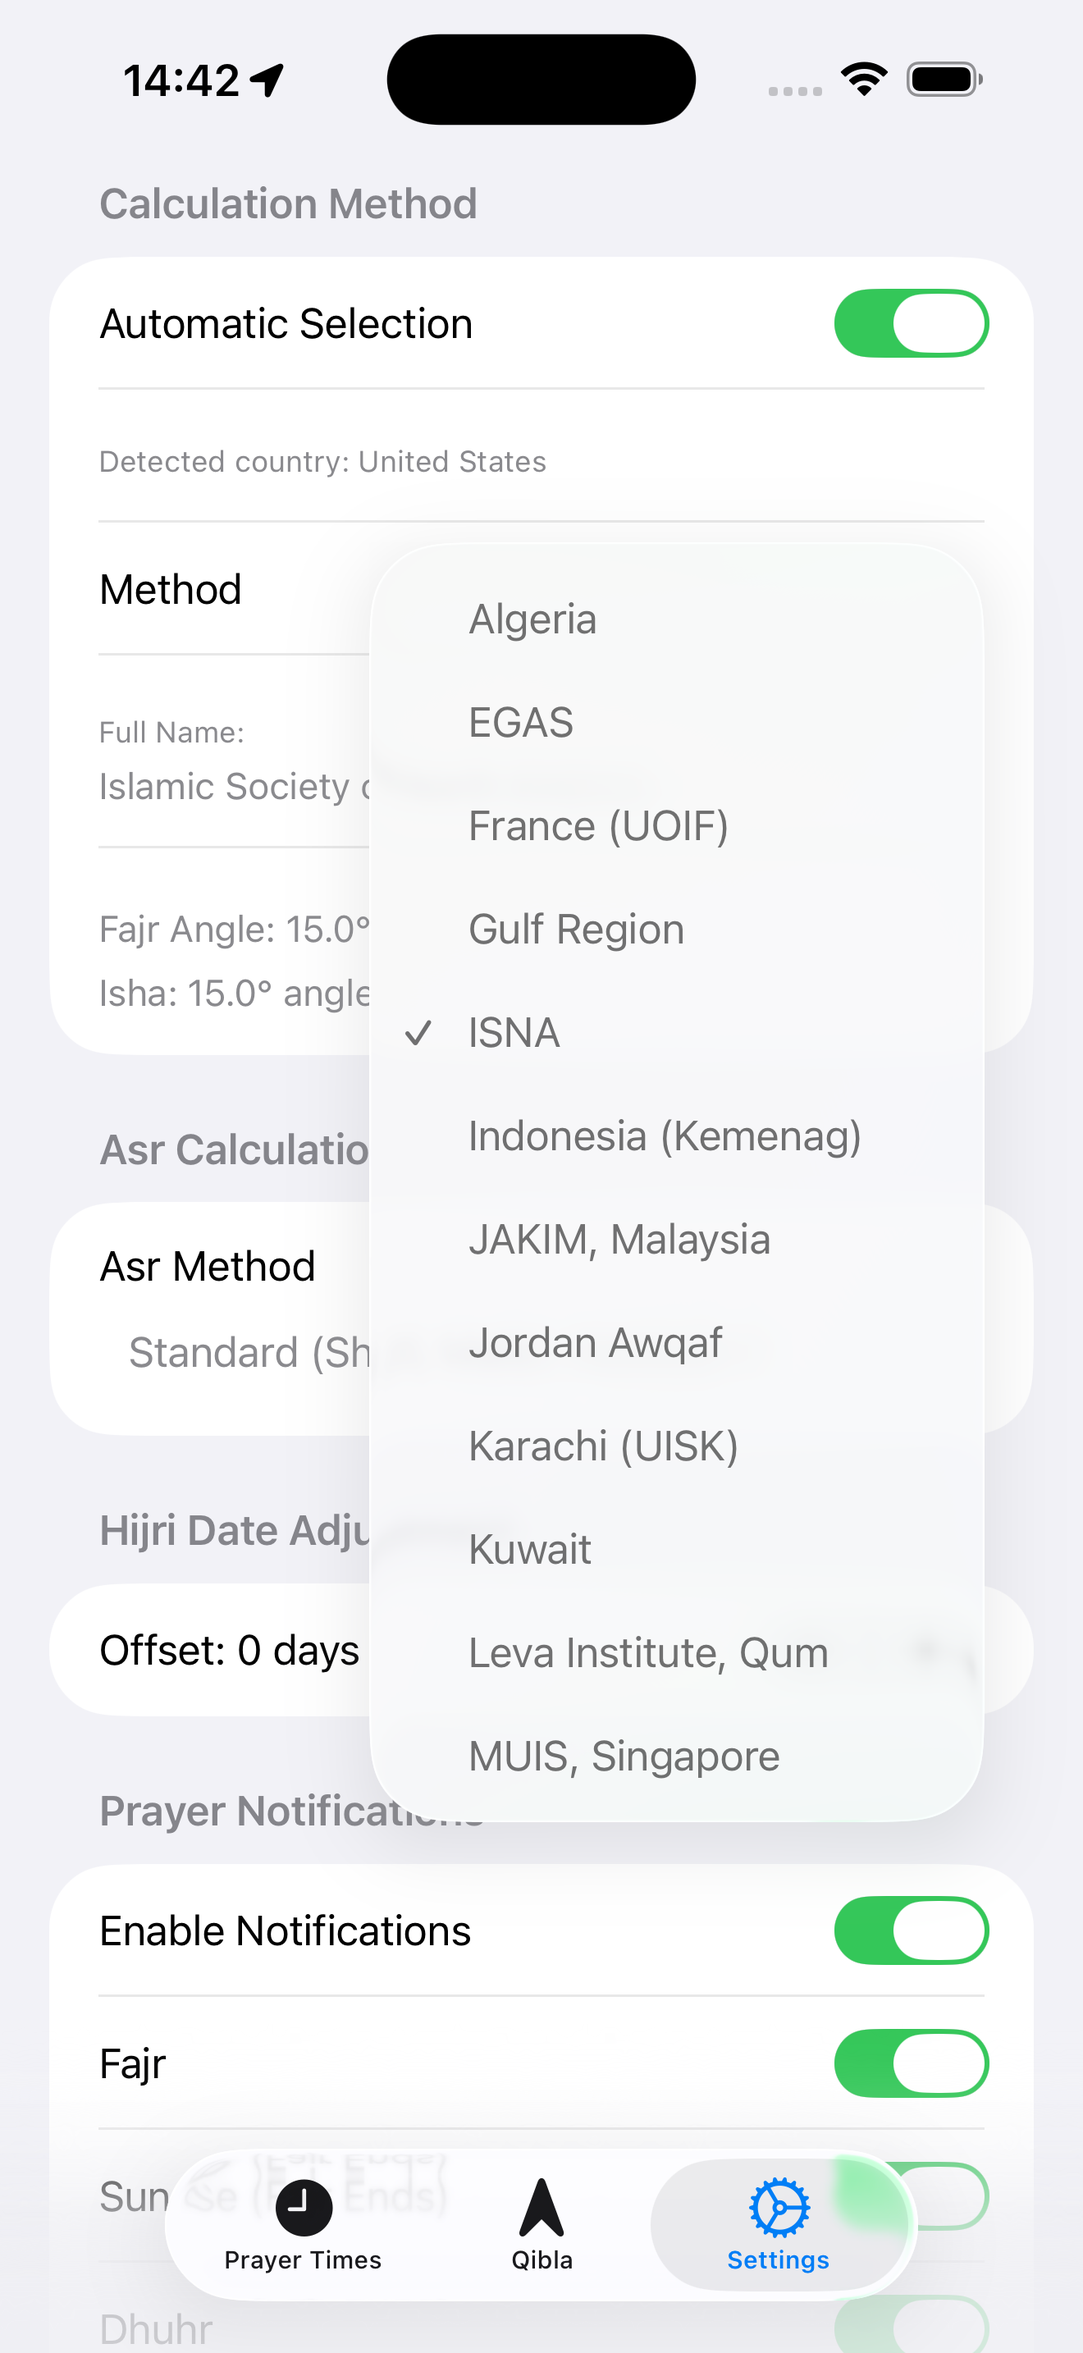
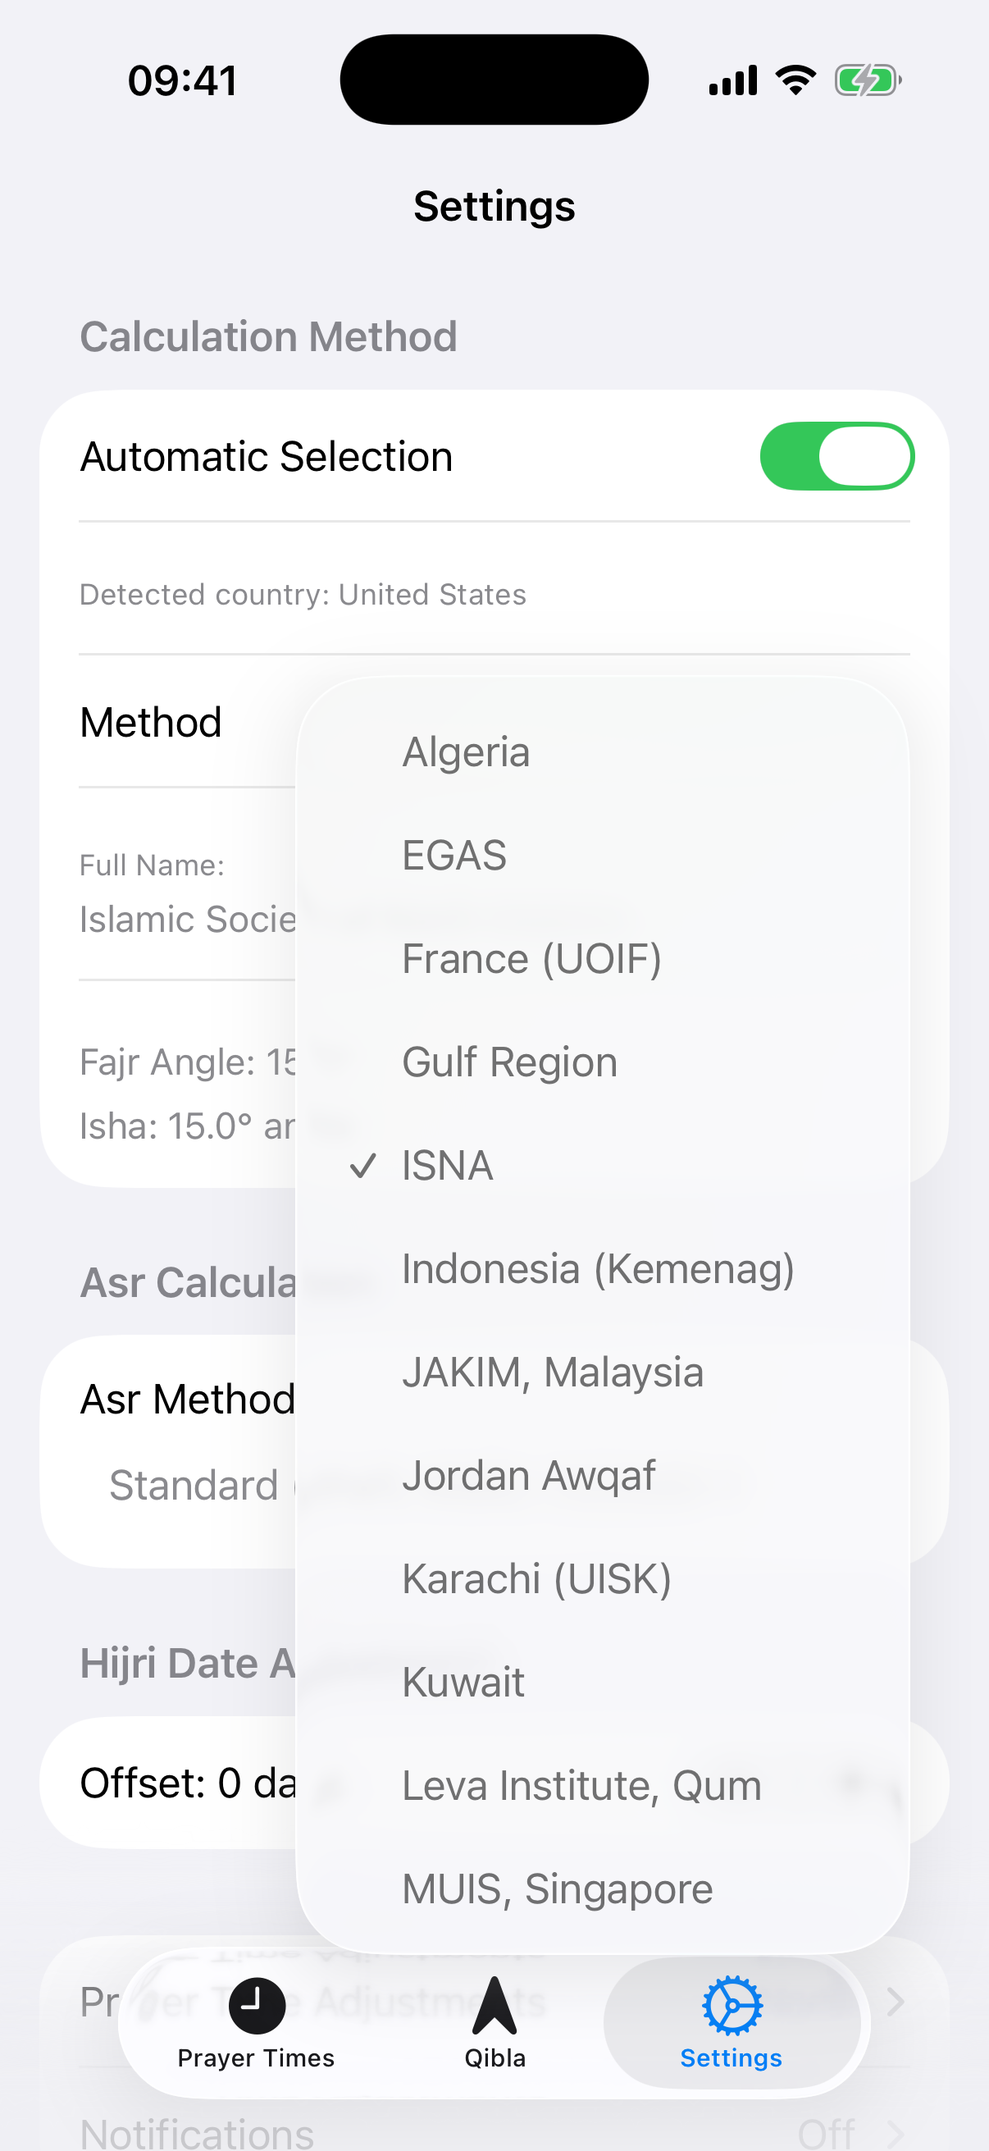
docs(nahtadi): Amendment 5 -- J4/J5 locked, screenshots recaptured from v1.2.1
Documents plus the six replaced binaries. Committed together deliberately: the
new K1 caption describes what slot 6 now depicts, so docs landing without the
images would leave the contract describing pictures that are not there.

J4 taken in full. The route is verified in source -- SettingsView.swift:220 is
Button("Set Up Again"), footered "Walk through the setup steps again with your
current choices."

J5 approved with its placement REVERSED, and my Amendment 4 recommendation was
wrong. I had it fourth, after the manual checks, reasoning the order should be
diagnose then guided fix then contact me. Walking the flow shows the seven
onboarding screens cover Location, Method, Adjustments, Hijri date and
Notifications -- every item that FAQ walks through by hand. So it is not a
fallback for failed diagnosis, it is a shortcut past the whole sequence, and
fourth place buries the easiest fix on the page's hardest question. It now
leads the answer, and the string is rewritten because "If you would rather be
walked through it" is an aside, which is the wrong register for an opener.
Amendment 4's J5 row is struck so only one J5 string is live.

Screenshots: all six recaptured at v1.2.1. Verified in the binaries, not
assumed -- one city, one date, one appearance holds (slot 1 Sunnyvale /
August 29 2026, slot 2 bearing 19.3 which is correct for Sunnyvale, slot 3
"Detected country: United States", all six light with a 09:41 status bar).
[…]

diff --git a/docs/superpowers/mockups/nahtadi/COPY-LOCKED.md b/docs/superpowers/mockups/nahtadi/COPY-LOCKED.md
@@ -105,13 +105,13 @@ The row is **A23** in §1.
 | **J1** | **LOCKED VERBATIM** |
 | **J2** | **LOCKED VERBATIM**, after the naming check below changed one word |
 | **J3** | **LOCKED VERBATIM**, with a post-approval naming correction recorded below |
-| **J4** | **PROPOSED** — restated in full, awaiting Omar |
-| **J5** | **PROPOSED** — restated in full, awaiting Omar |
+| **J4** | **LOCKED VERBATIM** (Amendment 5) |
+| **J5** | **LOCKED VERBATIM** (Amendment 5) — **placement changed and string rewritten**, see Amendment 5 §1 |
 | **J6** | **LOCKED VERBATIM**, rewritten to Omar's two requirements |
 
 A LOCKED row carries the same status as the rest of this document: N3 lifts it
-verbatim and does not re-edit it. **N3 must not lift J4 or J5 until they are
-locked.**
+verbatim and does not re-edit it. **All six J-rows are now locked** — Amendment 5
+closed J4 and J5.
 
 **Why this amendment exists.** The N1 audit checked the copy for voice and for
 accuracy against the canonical facts sheet — but that sheet predates **v1.2.0**.
@@ -278,7 +278,7 @@ UI they describe changed in v1.2.0, so literal accuracy is what has been lost.
 | # | Type | Location | BEFORE (exact) | AFTER (proposed) |
 |---|---|---|---|---|
 | J4 | COPY | support FAQ 1, "How do I change the prayer calculation method?" — **one sentence replaced**, rest of the answer untouched | `You can disable this to manually choose from various methods including ISNA (Islamic Society of North America), MWL (Muslim World League), UQU (Umm al-Qura University), EGAS (Egyptian General Authority of Survey), and others.` | `You can disable this to manually choose from 22 methods including ISNA (Islamic Society of North America), MWL (Muslim World League), UQU (Umm al-Qura University), EGAS (Egyptian General Authority of Survey), JAKIM (Malaysia) and Turkiye. You can also re-run the guided setup at any time from Settings, then Set Up Again.` |
-| J5 | COPY | support FAQ 2, "The prayer times seem incorrect. What should I check?" — **one sentence inserted** after the calculation-method sentence, rest untouched | *(no such sentence today)* | `If you would rather be walked through it, Settings, then Set Up Again re-runs the guided setup, including the calculation method.` |
+| ~~J5~~ | **SUPERSEDED** | support FAQ 2 | *(no such sentence today)* | **This wording and placement are superseded by Amendment 5 §1.** It was drafted to sit fourth in the answer; it now leads it, and the aside phrasing no longer fits. Do not implement this string. |
 | J6 | COPY | support FAQ 3, "How do I enable prayer time notifications?" — **final sentence replaced** | `On day 9, you'll receive a reminder notification asking you to open the app so it can automatically schedule the next batch of notifications.` | `The app keeps that window topped up in the background, so you normally never need to do anything. A reminder to open the app only appears if it has not refreshed for nine days.` |
 
 **J6 is written as the better story, per Omar's ruling, not as a grudging
@@ -334,6 +334,12 @@ may read as giving up on the diagnosis.
 sentence and before the support-email fallback, so the order is diagnose, then
 guided fix, then contact me. That is the escalation order a reader expects.
 
+> **OVERTAKEN BY THE RULING.** Omar approved J5 but reversed the placement, and he
+> was right: the onboarding flow covers *every* item this FAQ walks through by hand,
+> so it is not a fallback for failed diagnosis, it is a shortcut past the whole
+> sequence. Fourth place buries the easiest fix on the page's hardest question. The
+> locked wording and placement are in **Amendment 5 §1**.
+
 **Neither row touches the FAQPage JSON-LD on `/nahtadi`** — these are
 `/nahtadi/support` answers, which are rendered as page content only.
 
@@ -370,6 +376,160 @@ No em dashes in any AFTER string. No AI cadence. Numbers written naturally (`22
 methods`, `nine days`, `48.5 degrees`). Canonical facts only, every one traced to a
 source file above. **The privacy policy is untouched.**
 
+## Amendment 5 — 2026-08-29, J4/J5 locked, and the screenshots are real again
+
+Three things: J4 and J5 close, the six screenshot binaries are replaced from the
+live app, and two strings are mined from the app's own onboarding copy.
+
+### 1. J4 and J5 are LOCKED — J5 with a placement change
+
+**J4 is taken in full**, count and route together. The route is verified in source:
+`Views/SettingsView.swift:220` is `Button("Set Up Again")`, footered
+`"Walk through the setup steps again with your current choices."`
+
+**J5 is approved with its placement REVERSED, and the string is rewritten to suit.**
+
+Amendment 4 recommended placing the guided-setup sentence fourth — after the manual
+diagnostic steps, before the email fallback — on the reasoning that the order should
+be diagnose, then guided fix, then contact me. **That reasoning was wrong, and
+walking the flow is what showed it.** The seven onboarding screens cover Location,
+Method, Adjustments, Hijri date and Notifications: **every item the FAQ walks through
+by hand.** So it is not a fallback for when diagnosis fails, it is a shortcut past
+the entire sequence. Placed fourth, most readers never reach the easiest fix, on the
+page's highest-friction question.
+
+It therefore **leads the answer**, and because it leads rather than interrupts, the
+Amendment 4 wording no longer fits: `If you would rather be walked through it …`
+is phrased as an aside, which is exactly the wrong register for a first sentence.
+
+| # | Type | Location | BEFORE | AFTER (LOCKED) |
+|---|---|---|---|---|
+| J5 | COPY | support FAQ 2, "The prayer times seem incorrect. What should I check?" — **prepended as the answer's opening**, existing text follows unchanged | *(no such sentence today)* | `The fastest fix is to re-run the guided setup: open Settings, then Set Up Again. It covers location, calculation method, adjustments, the Hijri date and notifications, which is every check below.` |
+
+The existing answer then begins `First, verify that Location Services are enabled…`
+unchanged, and `First` now reads as the first manual check for a reader who prefers
+to do it themselves. Nothing is removed; the email fallback keeps its place last.
+
+### 2. The screenshots are replaced — the staleness workstream is CLOSED
+
+All six of `public/images/nahtadi/screenshot-1..6.png` are new captures from the
+live app at **v1.2.1**. The previous set dated from **9 April 2026**, six days before
+the v1.1.0 submission: two releases stale, and slot 4 baked `v1.1.0` into the image.
+
+**Slot mapping — caption order is deliberately preserved**, so every locked row keeps
+pointing at the right image:
+
+| Slot | Screen | Caption row |
+|---|---|---|
+| 1 | Prayer Times | unchanged |
+| 2 | Qibla Compass | unchanged |
+| 3 | Calculation Methods — now the method picker itself | **J1** |
+| 4 | Notifications | unchanged (A12) |
+| 5 | Settings | unchanged |
+| 6 | was Offline Mode, **now the guided setup** | **K1 below** |
+
+**Verified in the new binaries, not assumed:**
+
+- **One city, one date, one appearance.** Slot 1 reads `Sunnyvale, CA` /
+  `August 29, 2026` / `14 Rabi' Al-Awwal 1448`; slot 2's Qibla bearing is `19.3°`,
+  which is the correct great-circle bearing from Sunnyvale; slot 3 reads
+  `Detected country: United States`. All six are light appearance with a `09:41`
+  status bar. This is the rule that matters most and it holds.
+- **Slot 3 corroborates J1 without literally proving it.** The picker is scrolled, so
+  twelve of the twenty-two are visible (`Algeria`, `EGAS`, `France (UOIF)`,
+  `Gulf Region`, `ISNA` checked, `Indonesia (Kemenag)`, `JAKIM, Malaysia`,
+  `Jordan Awqaf`, `Karachi (UISK)`, `Kuwait`, `Leva Institute, Qum`,
+  `MUIS, Singapore`). It shows a long list that continues past the fold; it does not
+  display a count. **J1's "22" rests on the source count, not on this image**, and
+  the image should not be described anywhere as showing all 22.
+- **The visible labels are exactly the `shortName` values** Amendment 4 §0 locked,
+  which is that rule confirmed on screen rather than in source.
+
+**Resolution changed** from `1320x2868` to `1206x2622` (iPhone 17 Pro). Aspect ratio
+moves from 9:19.55 to 9:19.567 — a 0.1% difference. The approved device frame is
+`aspect-ratio: 9/19.55` with `object-fit: cover`, so the new images crop by a
+fraction of a pixel and there is **no layout consequence and no mockup revision**.
+Recorded so the number change is not mistaken for one.
+
+### 3. Slot 6's caption changes meaning — the only caption row that moves
+
+Slot 6 was `Offline Mode` / `Works without internet, using your last known location.`
+The new image is the onboarding welcome screen, so that caption is now simply wrong.
+
+| # | Type | Location | BEFORE (locked) | AFTER (LOCKED) | Chars |
+|---|---|---|---|---|---|
+| K1 | COPY | `screenshots` array, slot 6 **title** | `Offline Mode` | `Guided Setup` | 12 → 12 |
+| K1 | COPY | `screenshots` array, slot 6 **description** (supersedes **F3**) | `Works without internet, using your last known location.` | `Set up takes about two minutes, and you can run it again any time.` | 55 → 66 |
+
+**`Guided Setup` matches the language J3, J4 and J5 already use**, so the family is
+consistent. 66 characters sits inside the caption envelope (51 to 77).
+
+**The two-minute promise is the point.** It is concrete, it is the app's own claim,
+and the page makes no comparable promise anywhere else. The second clause carries the
+`Set Up Again` fact into the page copy for readers who never open the FAQ.
+
+**The offline claim is NOT lost.** It survives in the hero line (`No ads. No
+tracking. Just salat.` sits beside it), in feature card A10 (`Calculated on your
+device. No internet connection required.`), in FAQ A4, and in the new slot 6 image's
+own on-screen text (`Prayer times and Qibla work fully offline.`). Nothing that was
+said is now unsaid.
+
+**This breaks §6's register**, which kept "all six screenshot `title` values". Slot 6
+is now the single exception; the other five titles stand.
+
+### 4. Mined from the app's onboarding copy
+
+The onboarding screen says four things, in Omar's own already-shipped words. **Two
+are taken, two are not**, and the two rejections are recorded so they are decisions:
+
+| App string | Verdict |
+|---|---|
+| `Nothing is ever sent to us. No servers, no accounts.` | **TAKEN as K2**, converted out of the corporate plural. |
+| `Set up takes about two minutes.` | **TAKEN as K1.** |
+| `Prayer times and Qibla work fully offline.` | **Not taken.** A10 already says `Calculated on your device. No internet connection required.`, which is the same claim and names the mechanism. No gain. |
+| `Prayer times, Qibla, and the Hijri calendar. All on your phone.` | **Not taken.** A13 is `Prayer times, Qibla, Hijri dates, and notifications. All of it on your device.` — near-identical and it also carries notifications, so the site's version is the stronger one. |
+
+| # | Type | Location | BEFORE (locked A16) | AFTER (LOCKED) | Chars |
+|---|---|---|---|---|---|
+| K2 | COPY | Privacy section sub (**supersedes A16**) | `Nahtadi collects nothing and transmits nothing. Your data stays on your device.` | `Nahtadi collects nothing and transmits nothing. No servers, no accounts.` | 78 → 71 |
+
+**Why this is worth amending a locked row.** A16's first sentence is an assertion;
+`No servers, no accounts` is **concrete and checkable**, which is the difference
+between claiming privacy and demonstrating it. It is also **shorter**, and it removes
+a redundancy that was already there: A16's old second sentence, `Your data stays on
+your device.`, restates the section heading `Nothing leaves your device.` almost word
+for word. The replacement adds information where the original repeated itself.
+
+**THE VOICE TRAP, and it is why this row is not a verbatim lift.** The app says
+`sent to us`. Lifting that would reinstate the corporate plural **F1 spent an entire
+pass removing**, on a page whose voice is settled as first person singular (A18
+already says `how to reach me`). The fix is to drop the clause containing the plural
+rather than to rewrite it: `No servers, no accounts` carries the whole payload with
+no grammatical person at all, so it needs neither `us` nor `I`. **Checked on word
+boundaries: no `we`, `us`, `our` in any Amendment 5 string.**
+
+**A16's load-bearing note survives.** §1 records that A16 is phrased to match the
+privacy policy's own `does NOT collect, transmit, or share any personal
+information`. K2 keeps that first sentence untouched, so the alignment holds; only
+the redundant second sentence is replaced. **If the policy changes, K2 changes with
+it, exactly as A16 did.**
+
+### Register updates
+
+- **§6, "Kept on `/nahtadi`"** — "all six screenshot `title` values" now has one
+  exception (slot 6, K1). A16's row is superseded by K2.
+- **§1, F3** — superseded by K1's description. F3 was an accuracy fix to a caption
+  whose image no longer exists; the accuracy point it made stands and is simply moot.
+- **Amendment 4's `J4`/`J5` PROPOSED status** — closed. All six J-rows locked.
+- **§10** — unaffected. `1.2.1` was already the recorded live version; these captures
+  come from it.
+
+### Constraints checked
+
+No em dashes in any AFTER string. No corporate plural, verified on word boundaries.
+Numbers natural (`22 methods`, `two minutes`, `nine days`). No metadata touched. The
+privacy policy is untouched. Every fact traced to source or to the new binaries.
+
 ## Audit ID traceability
 
 Row IDs match the N1 audit table so approvals can be traced back. Six notes:
@@ -399,6 +559,12 @@ Row IDs match the N1 audit table so approvals can be traced back. Six notes:
   lifts them like any other row. **J4 and J5 remain PROPOSED — N3 must not lift
   either until it is locked.** Amendment 4's §0 also sets a durable naming rule that
   binds any future row naming a calculation authority.
+- **The `K` prefix is Amendment 5's**, and both rows are **LOCKED**. K1 supersedes F3
+  and changes the one screenshot `title` §6 had kept; K2 supersedes A16. They exist
+  because the screenshot binaries were replaced from the live app, which changed what
+  slot 6 depicts, and because the app's own onboarding copy said one thing better
+  than the site did. Amendment 5 also closes J4 and J5, so **every J-row and K-row is
+  now locked and N3 lifts all of them verbatim.**
 
 ---
 

diff --git a/docs/superpowers/mockups/nahtadi/APPROVED.md b/docs/superpowers/mockups/nahtadi/APPROVED.md
@@ -389,10 +389,59 @@ review. These are contractual:
 - **The blocking pre-ship gates in `COPY-LOCKED.md` §9 still apply**, including
   running `npm run test:all` rather than assuming — H1 and H2 both touch tested
   surfaces.
-- **Screenshot staleness is a SEPARATE workstream and does not block this build.**
-  `screenshot-4.png` bakes in `Nahtadi v1.1.0` while **1.2.1** has shipped; no code
-  change fixes a number burned into an image, and the other five are likely stale
-  too. They need re-capturing from the app.
+- **Screenshot staleness: CLOSED 2026-08-29.** All six binaries were re-captured
+  from the live app at **v1.2.1** and are recorded in `COPY-LOCKED.md` Amendment 5.
+  Slot 6 changed meaning (Offline Mode → the guided setup) and took a new caption,
+  row **K1**; the other five keep their captions. Resolution moved `1320x2868` →
+  `1206x2622`, an aspect-ratio change of 0.1% that the `object-fit: cover` device
+  frame absorbs — **no layout consequence, no mockup revision.**
+
+**The approved mockups now show STALE CAPTIONS, and that is expected.** `v4.html`
+was drawn before J1 and K1 were locked, so it still renders slot 3 as `Choose the
+method your region follows.` and slot 6 as `Offline Mode` / `Works without internet,
+using your last known location.` — the latter now sitting over an onboarding
+screenshot. **Do not "fix" the mockup and do not build from it.** The precedence rule
+in *Copy* above already governs: `COPY-LOCKED.md` wins, and N3 builds from the rows
+(J1 for slot 3, K1 for slot 6). Verified 2026-08-29 that the new binaries render in
+the approved device frame with **zero** crop (rendered ratio 0.4604 against the
+frame's 0.4604) and a leading inset of 0px, so the mockup remains an accurate
+*visual* contract even where its caption text is superseded.
+
+### Screenshot capture recipe
+
+Re-shooting should be a repeat of steps, not a fresh afternoon.
+
+Device: **iPhone 17 Pro simulator, iOS 26.5** — the same device the app's own CI
+uses, so the captures match what is tested.
+
+```
+xcrun simctl privacy    <udid> grant location com.omaryounis.Nahtadi
+xcrun simctl location   <udid> set 37.3688,-122.0363          # Sunnyvale
+xcrun simctl ui         <udid> appearance light
+xcrun simctl status_bar <udid> override --time "9:41" --batteryState charged \
+    --batteryLevel 100 --cellularMode active --cellularBars 4 --wifiMode active \
+    --wifiBars 3
+xcrun simctl io         <udid> screenshot <path>              # full-res 1206x2622
+```
+
+**THE RULE THAT MATTERS MORE THAN ANY SINGLE STEP: all six must share one city, one
+date and one appearance.** A set where the Qibla points one way and the prayer times
+belong to a different city falls apart under any careful look, and that is the
+failure nobody can name but everyone feels. The 2026-08-29 set holds it — slot 1
+`Sunnyvale, CA` / `August 29, 2026`, slot 2 bearing `19.3°` which is correct for
+Sunnyvale, slot 3 `Detected country: United States`, all six light with a `09:41`
+status bar. **Check this across the set before committing, not per image.**
+
+**NEVER screenshot the About panel.** It displays the app version, which is the exact
+staleness trap that put `v1.1.0` into the old set and forced this whole workstream.
+It sits directly below `Set Up Again` in `SettingsView`, so it is easy to catch by
+accident when shooting Settings — frame slot 5 above it.
+
+**Known artifact, accepted.** `status_bar override` fakes the status bar only; the
+app's own clock stays real. In the current set slot 1 shows `09:41` with a Dhuhr
+countdown of `01:52:52` against a 13:10 Dhuhr, which implies a real capture time
+around 11:17. Apple's own marketing shots carry the same mismatch. If it ever needs
+to be exact, capture near the real 9:41 rather than trying to fake both.
 - **Entrance:** the established pattern — `0.6s var(--ease-brand) var(--enter-delay)
   both`, riding on `translate`, never `transform`. Six hero beats: icon `0s`, badge
   `.1s`, title `.2s`, kicker `.28s`, sub `.36s`, App Store badge `.46s`. Below the
